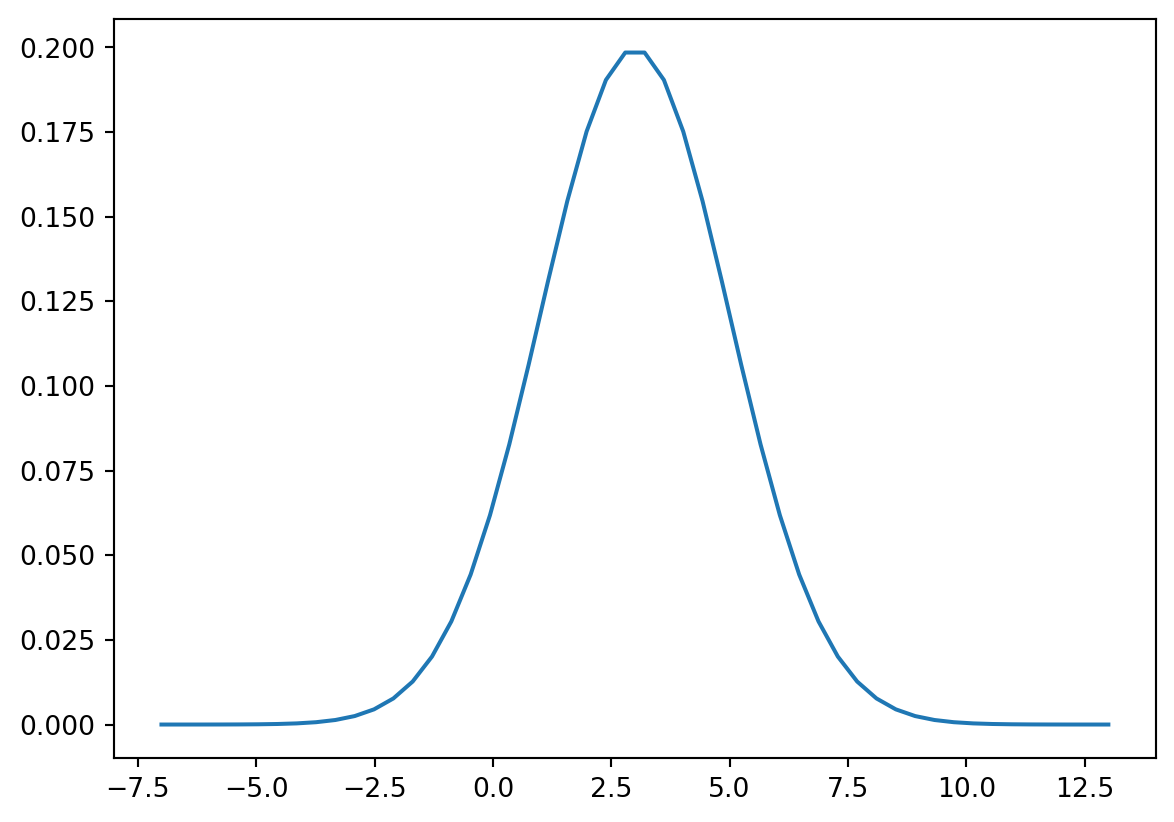
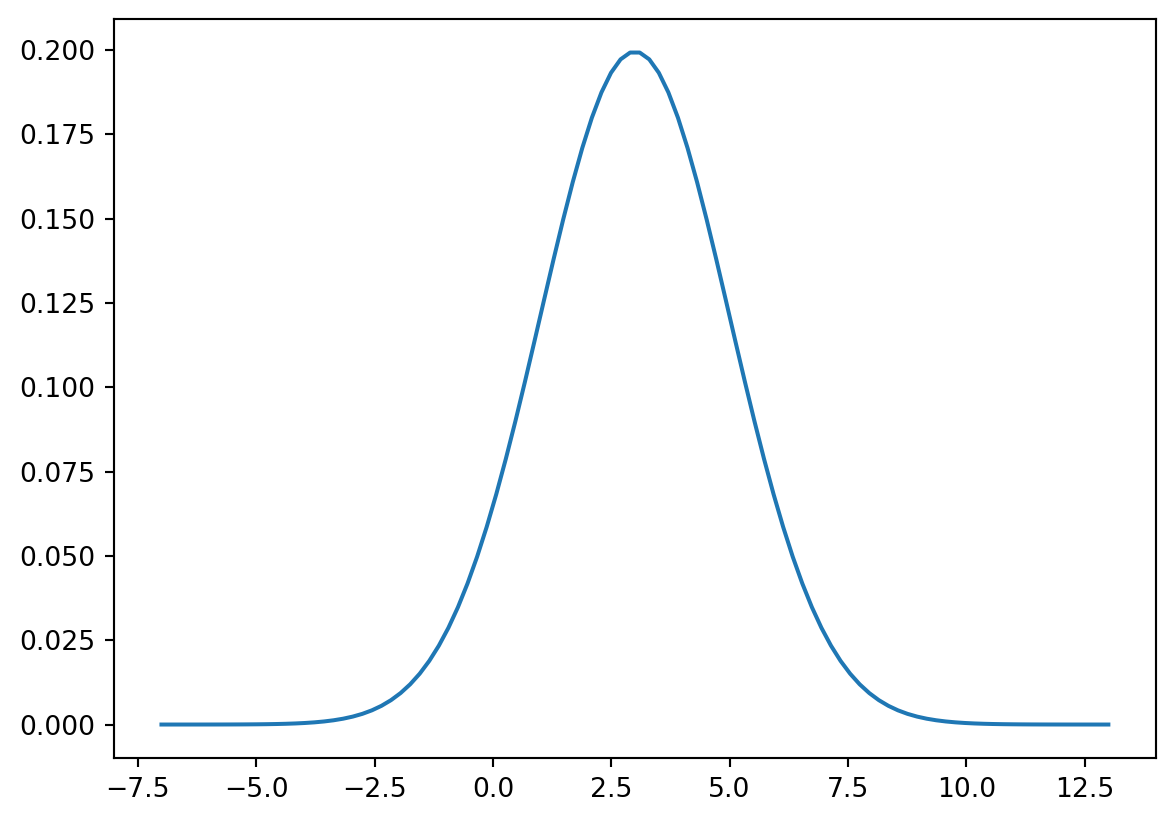
hw3

diff --git a/docs/posts/hw3/index.html b/docs/posts/hw3/index.html
@@ -211,7 +211,7 @@ pre > code.sourceCode > span > a:first-child::before { text-decoration: underlin
 </section>
 <section id="정규분포-pdf-값을-계산하는-자신만의-python-함수를-정의하고-정규분포-mu-3-sigma-2의-pdf를-그릴-것" class="level2">
 <h2 class="anchored" data-anchor-id="정규분포-pdf-값을-계산하는-자신만의-python-함수를-정의하고-정규분포-mu-3-sigma-2의-pdf를-그릴-것">정규분포 pdf 값을 계산하는 자신만의 Python 함수를 정의하고 정규분포 mu = 3, sigma = 2의 pdf를 그릴 것</h2>
-<div id="ceb08aa7" class="cell" data-execution_count="1">
+<div id="2286005e" class="cell" data-execution_count="1">
 <div class="sourceCode cell-code" id="cb1"><pre class="sourceCode python code-with-copy"><code class="sourceCode python"><span id="cb1-1"><a href="#cb1-1" aria-hidden="true" tabindex="-1"></a><span class="im">from</span> scipy.stats <span class="im">import</span> bernoulli</span>
 <span id="cb1-2"><a href="#cb1-2" aria-hidden="true" tabindex="-1"></a><span class="im">from</span> scipy.stats <span class="im">import</span> binom</span>
 <span id="cb1-3"><a href="#cb1-3" aria-hidden="true" tabindex="-1"></a><span class="im">import</span> seaborn <span class="im">as</span> sns</span>
@@ -229,7 +229,7 @@ pre > code.sourceCode > span > a:first-child::before { text-decoration: underlin
 <span id="cb1-15"><a href="#cb1-15" aria-hidden="true" tabindex="-1"></a>  <span class="cf">return</span> result</span>
 <span id="cb1-16"><a href="#cb1-16" aria-hidden="true" tabindex="-1"></a></span>
 <span id="cb1-17"><a href="#cb1-17" aria-hidden="true" tabindex="-1"></a>plt.clf()</span>
-<span id="cb1-18"><a href="#cb1-18" aria-hidden="true" tabindex="-1"></a>x <span class="op">=</span> np.linspace(<span class="op">-</span><span class="dv">7</span>, <span class="dv">13</span>, <span class="dv">50</span>)</span>
+<span id="cb1-18"><a href="#cb1-18" aria-hidden="true" tabindex="-1"></a>x <span class="op">=</span> np.linspace(<span class="op">-</span><span class="dv">7</span>, <span class="dv">13</span>, <span class="dv">100</span>)</span>
 <span id="cb1-19"><a href="#cb1-19" aria-hidden="true" tabindex="-1"></a>y <span class="op">=</span> my_norm(x, <span class="dv">3</span>, <span class="dv">2</span>)</span>
 <span id="cb1-20"><a href="#cb1-20" aria-hidden="true" tabindex="-1"></a>plt.plot(x, y)</span>
 <span id="cb1-21"><a href="#cb1-21" aria-hidden="true" tabindex="-1"></a>plt.show()</span></code><button title="Copy to Clipboard" class="code-copy-button"><i class="bi"></i></button></pre></div>
@@ -250,27 +250,27 @@ pre > code.sourceCode > span > a:first-child::before { text-decoration: underlin
 </section>
 <section id="px-3" class="level2">
 <h2 class="anchored" data-anchor-id="px-3">1) P(X &lt; 3)</h2>
-<div id="1b8ede3c" class="cell" data-execution_count="2">
+<div id="c1d8bc19" class="cell" data-execution_count="2">
 <div class="sourceCode cell-code" id="cb2"><pre class="sourceCode python code-with-copy"><code class="sourceCode python"><span id="cb2-1"><a href="#cb2-1" aria-hidden="true" tabindex="-1"></a>norm.cdf(<span class="dv">3</span>, loc <span class="op">=</span> <span class="dv">2</span>, scale <span class="op">=</span> <span class="dv">3</span>)</span></code><button title="Copy to Clipboard" class="code-copy-button"><i class="bi"></i></button></pre></div>
-<div class="cell-output cell-output-display" data-execution_count="12">
+<div class="cell-output cell-output-display" data-execution_count="2">
 <pre><code>0.6305586598182363</code></pre>
 </div>
 </div>
 </section>
 <section id="p2-x-5" class="level2">
 <h2 class="anchored" data-anchor-id="p2-x-5">2) P(2 &lt; X &lt; 5)</h2>
-<div id="d9444157" class="cell" data-execution_count="3">
+<div id="2a7b12f5" class="cell" data-execution_count="3">
 <div class="sourceCode cell-code" id="cb4"><pre class="sourceCode python code-with-copy"><code class="sourceCode python"><span id="cb4-1"><a href="#cb4-1" aria-hidden="true" tabindex="-1"></a>norm.cdf(<span class="dv">5</span>, <span class="dv">2</span>, <span class="dv">3</span>) <span class="op">-</span> norm.cdf(<span class="dv">2</span>, <span class="dv">2</span>, <span class="dv">3</span>)</span></code><button title="Copy to Clipboard" class="code-copy-button"><i class="bi"></i></button></pre></div>
-<div class="cell-output cell-output-display" data-execution_count="13">
+<div class="cell-output cell-output-display" data-execution_count="3">
 <pre><code>0.3413447460685429</code></pre>
 </div>
 </div>
 </section>
 <section id="px-3-or-x-7" class="level2">
 <h2 class="anchored" data-anchor-id="px-3-or-x-7">3) P(X &lt; 3 or X &gt; 7)</h2>
-<div id="f7517b92" class="cell" data-execution_count="4">
+<div id="9478d8a6" class="cell" data-execution_count="4">
 <div class="sourceCode cell-code" id="cb6"><pre class="sourceCode python code-with-copy"><code class="sourceCode python"><span id="cb6-1"><a href="#cb6-1" aria-hidden="true" tabindex="-1"></a><span class="dv">1</span> <span class="op">-</span> (norm.cdf(<span class="dv">7</span>, <span class="dv">2</span>, <span class="dv">3</span>) <span class="op">-</span> norm.cdf(<span class="dv">3</span>, <span class="dv">2</span>, <span class="dv">3</span>))</span></code><button title="Copy to Clipboard" class="code-copy-button"><i class="bi"></i></button></pre></div>
-<div class="cell-output cell-output-display" data-execution_count="14">
+<div class="cell-output cell-output-display" data-execution_count="4">
 <pre><code>0.678349012091051</code></pre>
 </div>
 </div>
@@ -280,9 +280,9 @@ pre > code.sourceCode > span > a:first-child::before { text-decoration: underlin
 </section>
 <section id="ls-빅데이터-스쿨-학생들의-중간고사-점수는-평균이-30이고-분산이-4인-정규분포를-따른다.-상위-5에-해당하는-학생의-점수는" class="level2">
 <h2 class="anchored" data-anchor-id="ls-빅데이터-스쿨-학생들의-중간고사-점수는-평균이-30이고-분산이-4인-정규분포를-따른다.-상위-5에-해당하는-학생의-점수는">LS 빅데이터 스쿨 학생들의 중간고사 점수는 평균이 30이고, 분산이 4인 정규분포를 따른다. 상위 5%에 해당하는 학생의 점수는?</h2>
-<div id="88fb7746" class="cell" data-execution_count="5">
+<div id="ecbd2958" class="cell" data-execution_count="5">
 <div class="sourceCode cell-code" id="cb8"><pre class="sourceCode python code-with-copy"><code class="sourceCode python"><span id="cb8-1"><a href="#cb8-1" aria-hidden="true" tabindex="-1"></a>norm.ppf(<span class="fl">0.95</span>, loc <span class="op">=</span> <span class="dv">30</span>, scale <span class="op">=</span> <span class="dv">2</span>)</span></code><button title="Copy to Clipboard" class="code-copy-button"><i class="bi"></i></button></pre></div>
-<div class="cell-output cell-output-display" data-execution_count="15">
+<div class="cell-output cell-output-display" data-execution_count="5">
 <pre><code>33.28970725390295</code></pre>
 </div>
 </div>

diff --git a/docs/blog.html b/docs/blog.html
@@ -301,7 +301,7 @@ Jul 16, 2024
 </a>
 </div>
 </div>
-<div class="quarto-post image-right" data-index="3" data-categories="bigdata" data-listing-date-sort="1721833200000" data-listing-file-modified-sort="1721897472945" data-listing-date-modified-sort="NaN" data-listing-reading-time-sort="1" data-listing-word-count-sort="178">
+<div class="quarto-post image-right" data-index="3" data-categories="bigdata" data-listing-date-sort="1721833200000" data-listing-file-modified-sort="1721899074637" data-listing-date-modified-sort="NaN" data-listing-reading-time-sort="1" data-listing-word-count-sort="178">
 <div class="thumbnail">
 <p><a href="./posts/hw3/index.html" class="no-external"></a></p><a href="./posts/hw3/index.html" class="no-external">
 <p class="card-img-top"><img src="posts\hw3\index_files\figure-html\cell-2-output-1.png"  class="thumbnail-image card-img"/></p>
